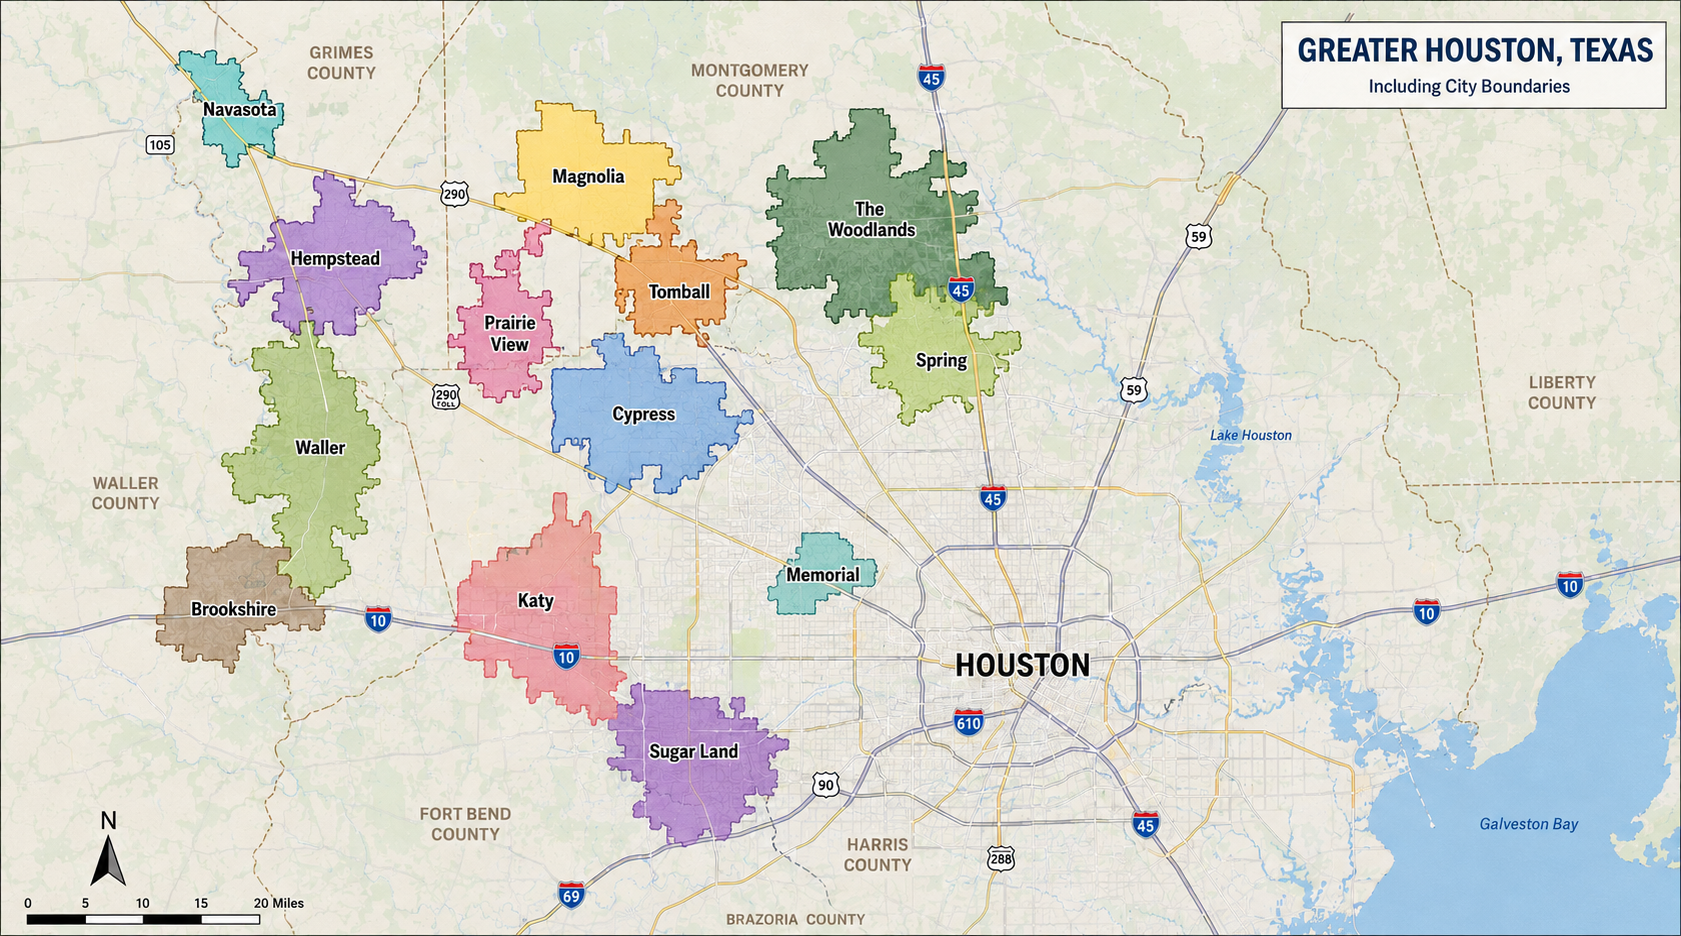
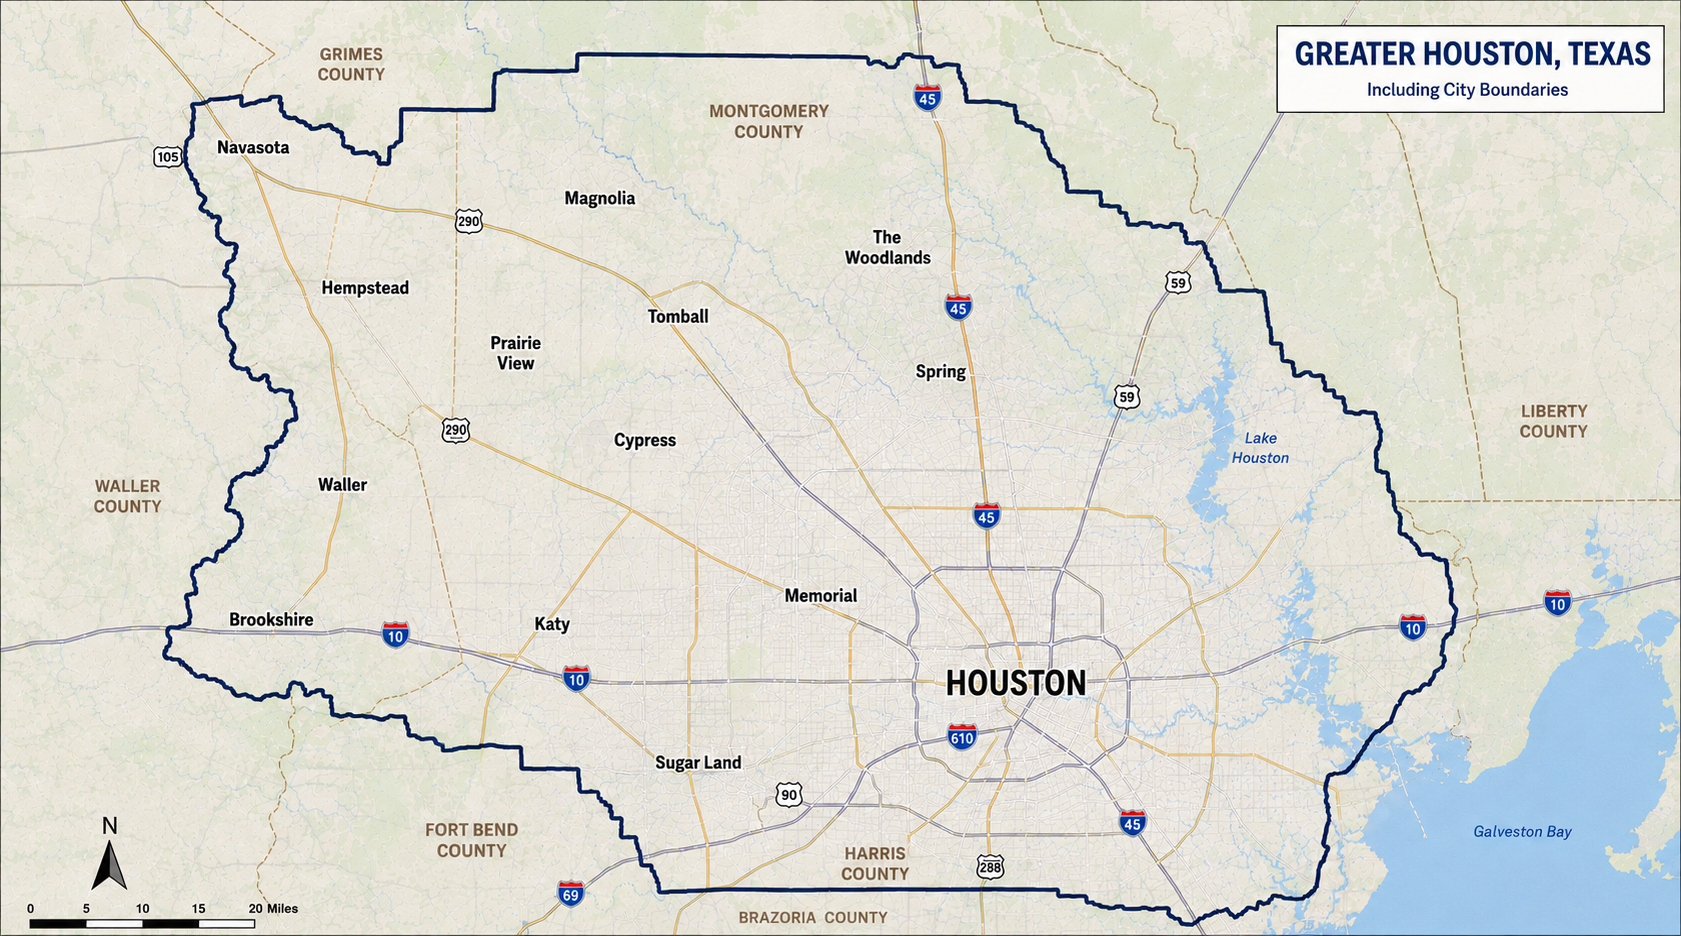
Replace map with new contiguous service area image
Swaps Leaflet implementation for a clean static PNG showing the full
Greater Houston service territory as a single contiguous boundary.

diff --git a/index.html b/index.html
@@ -11,7 +11,6 @@
   <link rel="icon" type="image/x-icon" href="images/favicon.ico">
   <link rel="icon" type="image/png" sizes="192x192" href="images/favicon-192.png">
   <link rel="stylesheet" href="css/styles.css">
-  <link rel="stylesheet" href="https://unpkg.com/leaflet@1.9.4/dist/leaflet.css" integrity="sha256-p4NxAoJBhIIN+hmNHrzRCf9tD/miZyoHS5obTRR9BMY=" crossorigin="">
 
   <script type="application/ld+json">
   {
@@ -181,7 +180,7 @@
       <h2>Where We Work</h2>
       <p class="section-sub">Based in Hempstead. Serving Katy, Cypress, and the greater Houston metro.</p>
       <div class="map-wrap">
-        <div id="service-map"></div>
+        <img src="images/service-area-map.png" alt="Lone Cedar Construction service area — greater Houston, Texas" class="service-map-img">
         <p class="map-caption">Based in Hempstead. Serving the greater Houston area within 40 miles.</p>
         <div class="areas-list">
           <span>Hempstead</span>
@@ -202,104 +201,6 @@
     </div>
   </section>
 
-  <script src="https://unpkg.com/leaflet@1.9.4/dist/leaflet.js" integrity="sha256-20nQCchB9co0qIjJZRGuk2/Z9VM+kNiyxNV/XN/WLs=" crossorigin=""></script>
-  <script>
-    (function () {
-      var cities = [
-        { name: 'Hempstead',     lat: 30.0983, lng: -96.0786 },
-        { name: 'Waller',        lat: 30.0567, lng: -95.9272 },
-        { name: 'Prairie View',  lat: 30.0884, lng: -95.9847 },
-        { name: 'Brookshire',    lat: 29.7853, lng: -95.9547 },
-        { name: 'Navasota',      lat: 30.3877, lng: -96.0856 },
-        { name: 'Katy',          lat: 29.7858, lng: -95.8244 },
-        { name: 'Cypress',       lat: 29.9691, lng: -95.6978 },
-        { name: 'Tomball',       lat: 30.0974, lng: -95.6161 },
-        { name: 'Spring',        lat: 30.0799, lng: -95.4179 },
-        { name: 'The Woodlands', lat: 30.1658, lng: -95.4613 },
-        { name: 'Magnolia',      lat: 30.2096, lng: -95.7508 },
-        { name: 'Memorial',      lat: 29.7666, lng: -95.5313 },
-        { name: 'Sugar Land',    lat: 29.6196, lng: -95.6349 }
-      ];
-
-      var servicePolygon = [
-        [30.48, -96.20],
-        [30.48, -96.00],
-        [30.30, -95.70],
-        [30.24, -95.40],
-        [30.10, -95.33],
-        [29.88, -95.36],
-        [29.70, -95.46],
-        [29.55, -95.60],
-        [29.55, -96.00],
-        [29.65, -96.12],
-        [29.80, -96.22]
-      ];
-
-      var DEFAULT_CENTER = [30.03, -95.78];
-      var DEFAULT_ZOOM   = 9;
-
-      var map = L.map('service-map', {
-        center: DEFAULT_CENTER,
-        zoom: DEFAULT_ZOOM,
-        scrollWheelZoom: false,
-        zoomControl: true
-      });
-
-      L.tileLayer('https://{s}.basemaps.cartocdn.com/light_all/{z}/{x}/{y}{r}.png', {
-        attribution: '&copy; <a href="https://www.openstreetmap.org/copyright">OpenStreetMap</a> contributors &copy; <a href="https://carto.com/attributions">CARTO</a>',
-        subdomains: 'abcd',
-        maxZoom: 20
-      }).addTo(map);
-
-      L.polygon(servicePolygon, {
-        color:       '#a8893f',
-        weight:      2,
-        fillColor:   '#c4a96a',
-        fillOpacity: 0.20
-      }).addTo(map);
-
-      var markers = {};
-      cities.forEach(function (c) {
-        var m = L.circleMarker([c.lat, c.lng], {
-          radius:      5,
-          color:       '#fff',
-          weight:      2,
-          fillColor:   '#4a6741',
-          fillOpacity: 1
-        }).addTo(map);
-        m.bindTooltip(c.name, { direction: 'top', offset: [0, -6], className: 'lc-tooltip' });
-        markers[c.name] = m;
-      });
-
-      var tags = document.querySelectorAll('.areas-list span');
-
-      tags.forEach(function (tag) {
-        tag.style.cursor = 'pointer';
-
-        tag.addEventListener('mouseenter', function () {
-          var name = tag.textContent.trim();
-          var city = cities.find(function (c) { return c.name === name; });
-          if (city) {
-            map.flyTo([city.lat, city.lng], 11, { duration: 0.6 });
-            markers[name].setStyle({ fillColor: '#c4a96a', radius: 8, weight: 2 });
-            markers[name].openTooltip();
-          }
-          tags.forEach(function (t) { t.classList.add('dimmed'); });
-          tag.classList.remove('dimmed');
-        });
-
-        tag.addEventListener('mouseleave', function () {
-          var name = tag.textContent.trim();
-          map.flyTo(DEFAULT_CENTER, DEFAULT_ZOOM, { duration: 0.6 });
-          if (markers[name]) {
-            markers[name].setStyle({ fillColor: '#4a6741', radius: 5 });
-            markers[name].closeTooltip();
-          }
-          tags.forEach(function (t) { t.classList.remove('dimmed'); });
-        });
-      });
-    })();
-  </script>
 
   <!-- CONTACT -->
   <section id="contact" class="section section-contact">

diff --git a/css/styles.css b/css/styles.css
@@ -362,25 +362,14 @@ h2 { font-size: clamp(2rem, 5vw, 3rem); margin-bottom: 16px; }
   gap: 28px;
   margin-top: 36px;
 }
-#service-map {
+.service-map-img {
   width: 100%;
   max-width: 760px;
-  height: 440px;
+  height: auto;
   border-radius: 8px;
-  overflow: hidden;
   box-shadow: 0 2px 16px rgba(0,0,0,0.10);
+  display: block;
 }
-.lc-tooltip {
-  background: #1a1a1a;
-  color: #fff;
-  border: none;
-  border-radius: 4px;
-  font-family: 'DM Sans', sans-serif;
-  font-size: 0.82rem;
-  padding: 4px 10px;
-  box-shadow: 0 2px 6px rgba(0,0,0,0.25);
-}
-.lc-tooltip::before { display: none; }
 .area-tag { cursor: default; }
 .area-tag.active { background: #4a7c3f; color: #fff; }
 .map-caption {
